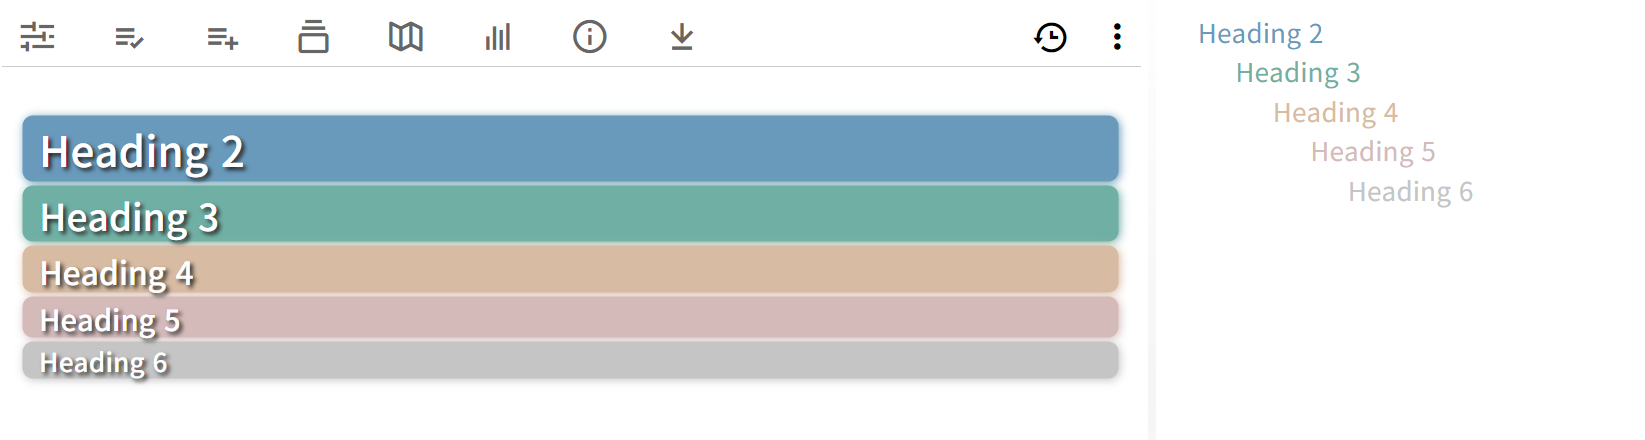
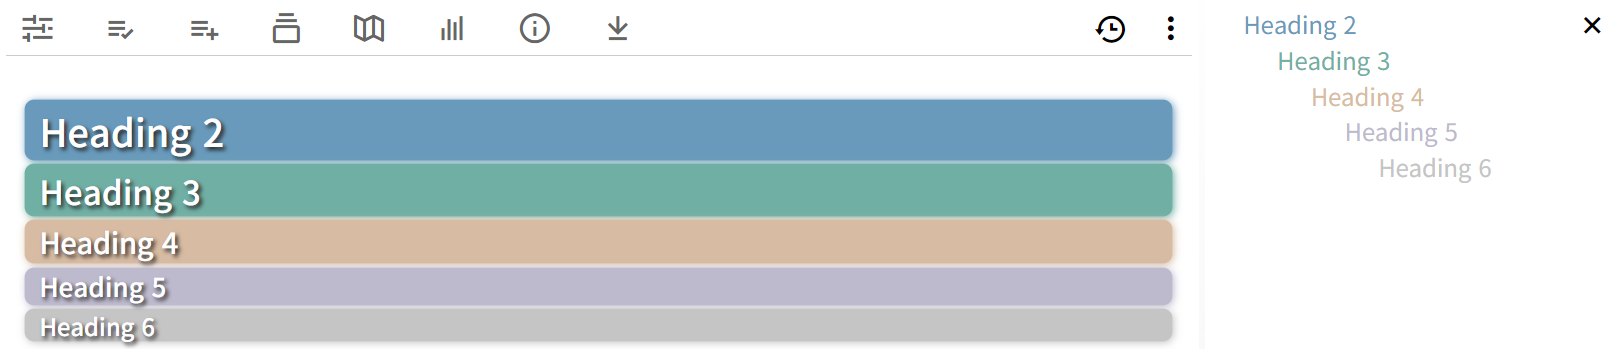
0.3

diff --git a/blue-theme.css b/blue-theme.css
@@ -142,7 +142,7 @@ html{
    --h2-background-color:rgb(105 154 187);
     --h3-background-color:rgb(112 175 164);
     --h4-background-color:rgb(215 187 162);
-    --h5-background-color:rgb(213 186 186);
+    --h5-background-color:rgb(190 186 206);
     --h6-background-color:rgb(197 197 197);
 }
 
